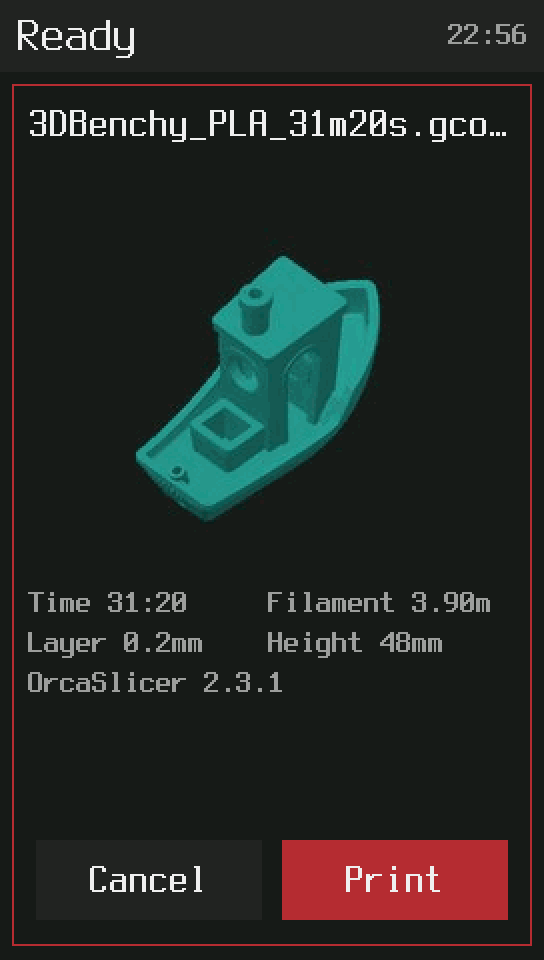
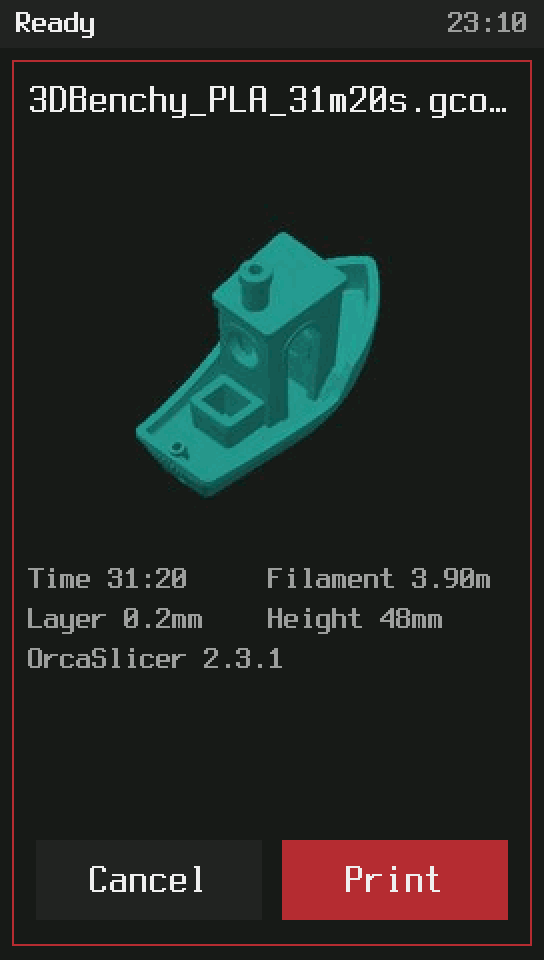
Slimmer title bar
The title bar drops from 36 to 24 px, and the title uses the small font
like the clock. The printing and blocker screens now lay out relative to
the bar height, and every screen gains the 12 px. README screenshots
are re-captured.

diff --git a/dwinui/ui/screens/printing.py b/dwinui/ui/screens/printing.py
@@ -42,32 +42,33 @@ class PrintingScreen(HeaderScreen):
                 x += ref.w + 4
             labels.append(Text(f"st.{key}.l", x, y, len(s), font=1, fg=t.DIM, value=s))
 
-        self.filename = Text("st.file", 8, 46, 32, font=1)
-        self.message = Text("st.msg", 8, 66, 32, font=1, fg=t.DIM)
-        self.hotend = Text("st.hotend", 8, 110, 9, font=4, fg=t.HOT)
-        self.bed = Text("st.bed", COL2, 110, 9, font=4, fg=t.HOT)
-        self.speed = Text("st.speed", 8, 174, 6, font=3)
-        self.flow = Text("st.flow", 96, 174, 6, font=3)
-        self.fan = Text("st.fan", COL3, 174, 6, font=3)
-        self.z = Text("st.z", 8, 236, 7, font=3)
-        self.offset = Text("st.offset", 96, 236, 7, font=3)
-        self.filament = Text("st.filament", COL3, 236, 7, font=3)
-        self.bar = Bar("st.bar", (8, 282, p.WIDTH - 9, 301))
-        self.percent = Text("st.pct", 8, 308, 7, font=3)
-        self.elapsed = Text("st.elapsed", 8, 360, 10, font=3)
-        self.remaining = Text("st.remaining", COL2, 360, 10, font=3)
-        self.finish = Text("st.finish", 8, 412, 22, font=2, fg=t.DIM)
+        T = t.HEADER_H   # layout below the title bar
+        self.filename = Text("st.file", 8, T + 10, 32, font=1)
+        self.message = Text("st.msg", 8, T + 30, 32, font=1, fg=t.DIM)
+        self.hotend = Text("st.hotend", 8, T + 74, 9, font=4, fg=t.HOT)
+        self.bed = Text("st.bed", COL2, T + 74, 9, font=4, fg=t.HOT)
+        self.speed = Text("st.speed", 8, T + 138, 6, font=3)
+        self.flow = Text("st.flow", 96, T + 138, 6, font=3)
+        self.fan = Text("st.fan", COL3, T + 138, 6, font=3)
+        self.z = Text("st.z", 8, T + 200, 7, font=3)
+        self.offset = Text("st.offset", 96, T + 200, 7, font=3)
+        self.filament = Text("st.filament", COL3, T + 200, 7, font=3)
+        self.bar = Bar("st.bar", (8, T + 246, p.WIDTH - 9, T + 265))
+        self.percent = Text("st.pct", 8, T + 272, 7, font=3)
+        self.elapsed = Text("st.elapsed", 8, T + 324, 10, font=3)
+        self.remaining = Text("st.remaining", COL2, T + 324, 10, font=3)
+        self.finish = Text("st.finish", 8, T + 376, 22, font=2, fg=t.DIM)
         self.hint = Text("st.hint", 0, 452, 34, font=1, fg=t.DIM, align="center")
-        label("hotend", 8, 92, "Hotend")
-        label("bed", COL2, 92, "Bed")
-        label("speed", 8, 156, "Speed")
-        label("flow", 96, 156, "Flow")
-        label("fan", COL3, 156, "Fan")
-        label("z", 8, 218, "Z")
-        label("offset", 96, 218, "Offset")
-        label("filament", COL3, 218, "Filament")
-        label("elapsed", 8, 342, "Elapsed")
-        label("remaining", COL2, 342, "Remaining")
+        label("hotend", 8, T + 56, "Hotend")
+        label("bed", COL2, T + 56, "Bed")
+        label("speed", 8, T + 120, "Speed")
+        label("flow", 96, T + 120, "Flow")
+        label("fan", COL3, T + 120, "Fan")
+        label("z", 8, T + 182, "Z")
+        label("offset", 96, T + 182, "Offset")
+        label("filament", COL3, T + 182, "Filament")
+        label("elapsed", 8, T + 306, "Elapsed")
+        label("remaining", COL2, T + 306, "Remaining")
         self.widgets += labels + [
             self.filename, self.message, self.hotend, self.bed, self.speed, self.flow, self.fan,
             self.z, self.offset, self.filament, self.bar, self.percent, self.elapsed,

diff --git a/dwinui/ui/screen.py b/dwinui/ui/screen.py
@@ -52,8 +52,9 @@ class HeaderScreen(Screen):
     def __init__(self, app: App) -> None:
         super().__init__(app)
         self.header_bg = Box("hdr.bg", (0, 0, p.WIDTH - 1, t.HEADER_H - 1), t.HEADER_BG)
-        self.header_title = Text("hdr.title", 8, 6, 13, font=3, bg=t.HEADER_BG, value=self.title)
-        self.header_temps = Text("hdr.temps", p.WIDTH - 8 - 11 * 8, 10, 11, font=1, fg=t.DIM,
+        text_y = (t.HEADER_H - p.FONTS[1][1]) // 2
+        self.header_title = Text("hdr.title", 8, text_y, 20, font=1, bg=t.HEADER_BG, value=self.title)
+        self.header_temps = Text("hdr.temps", p.WIDTH - 8 - 11 * 8, text_y, 11, font=1, fg=t.DIM,
                                  bg=t.HEADER_BG, align="right")
         self.widgets += [self.header_bg, self.header_title, self.header_temps]
 

diff --git a/dwinui/ui/screens/blocker.py b/dwinui/ui/screens/blocker.py
@@ -23,7 +23,7 @@ class BlockerScreen(ListScreen):
     def __init__(self, app) -> None:
         super().__init__(app)
         self.list.area = (0, 260, p.WIDTH - 1, p.HEIGHT - 50)
-        self.lines = [Text(f"blk.l{i}", 8, 50 + i * 24, 32, font=1, fg=t.DIM)
+        self.lines = [Text(f"blk.l{i}", 8, t.HEADER_H + 14 + i * 24, 32, font=1, fg=t.DIM)
                       for i in range(MSG_LINES)]
         self.widgets += self.lines
         self.set_items([

diff --git a/dwinui/ui/theme.py b/dwinui/ui/theme.py
@@ -30,7 +30,7 @@ CHAMBER = rgb(0x4C, 0xAF, 0x50)
 GRAPH_BG = rgb(0x18, 0x18, 0x18)
 GRID = rgb(0x33, 0x33, 0x33)
 
-HEADER_H = 36
+HEADER_H = 24
 TOAST_RECT = (0, HEIGHT - 48, WIDTH - 1, HEIGHT - 1)
 
 __all__ = [n for n in dir() if n.isupper()]
